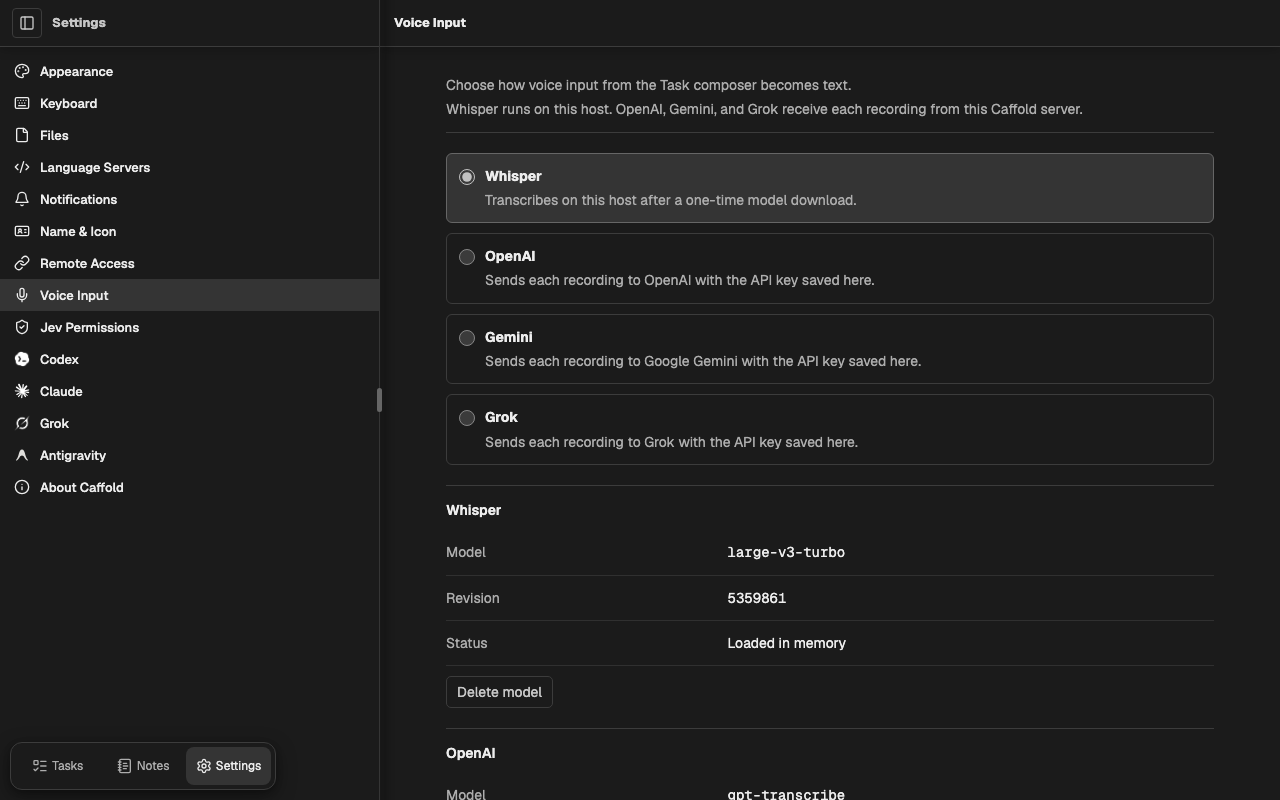
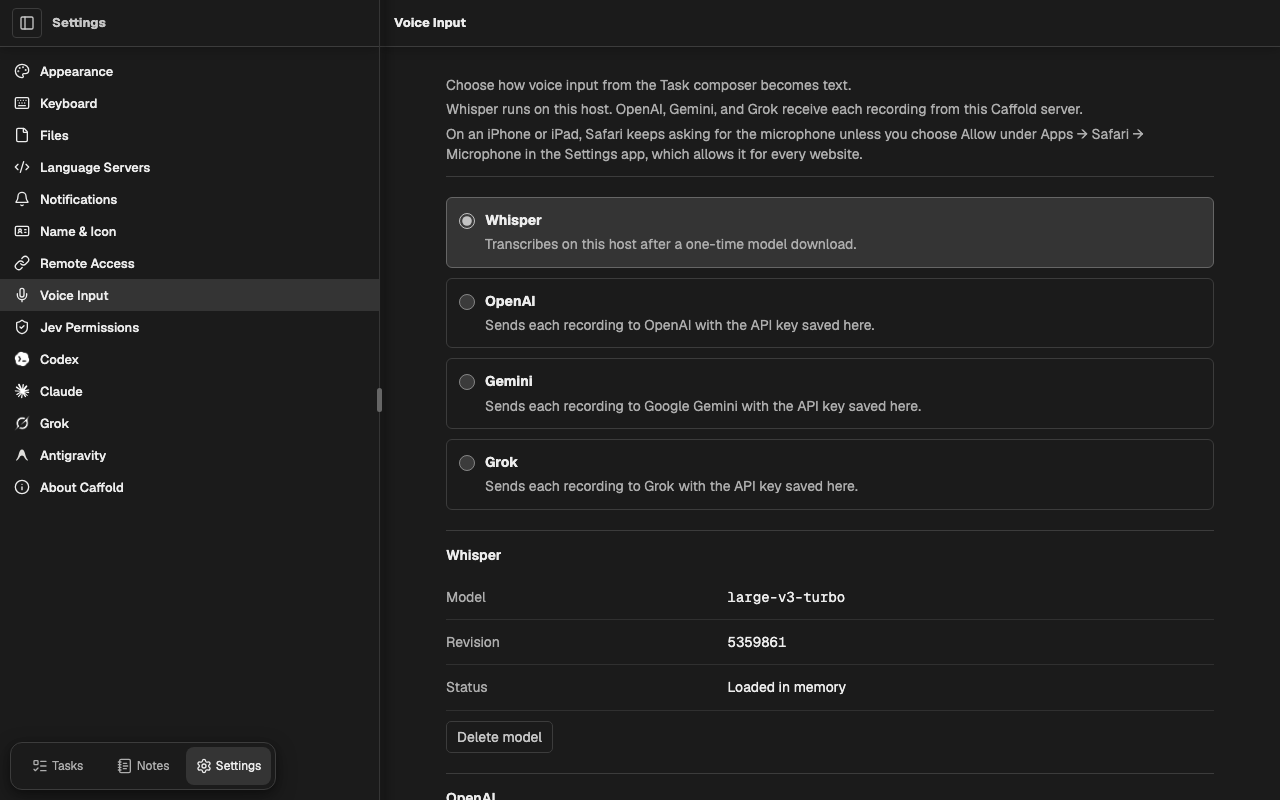
Show iPhone and iPad users how to stop Safari asking for the microphone again
On an iPhone or iPad, Safari forgets the microphone permission a short while
after each recording and whenever Caffold reopens, so voice input keeps asking.
Settings → Voice Input and the manual's Voice input page now say to choose Allow
under Apps → Safari → Microphone in the Settings app, which allows every website.

diff --git a/frontend/pages/(task-workspace)/settings/voice/page.ts b/frontend/pages/(task-workspace)/settings/voice/page.ts
@@ -131,6 +131,11 @@ export class CaffoldSettingsVoicePage extends CaffoldElement {
                 Whisper runs on this host. OpenAI, Gemini, and Grok receive each
                 recording from this Caffold server.
               </p>
+              <p>
+                On an iPhone or iPad, Safari keeps asking for the microphone
+                unless you choose Allow under Apps → Safari → Microphone in the
+                Settings app, which allows it for every website.
+              </p>
             </div>
             <button
               ${this.hints.button({

diff --git a/website/docs/voice-input.md b/website/docs/voice-input.md
@@ -36,6 +36,11 @@ Whisper is the provider until you choose another.
 ready, the voice button reads **Set up voice input** and opens
 **Settings → Voice Input** instead.
 
+On an iPhone or iPad, Safari asks again after a short while and whenever
+Caffold reopens. To stop it asking, open the **Settings** app, go to
+**Apps → Safari → Microphone**, and choose **Allow**. This allows the
+microphone for every website in Safari, including Caffold on the Home Screen.
+
 ## Where recordings go
 
 The browser sends each recording to the host. With Whisper it stays there; with
